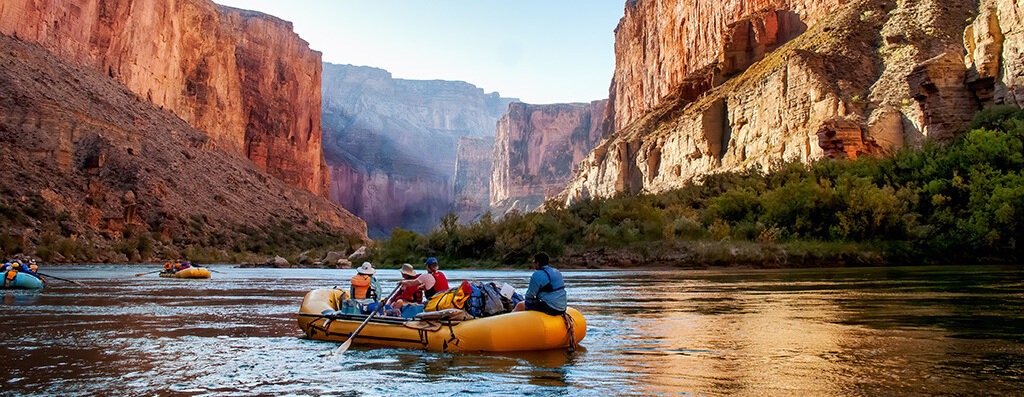
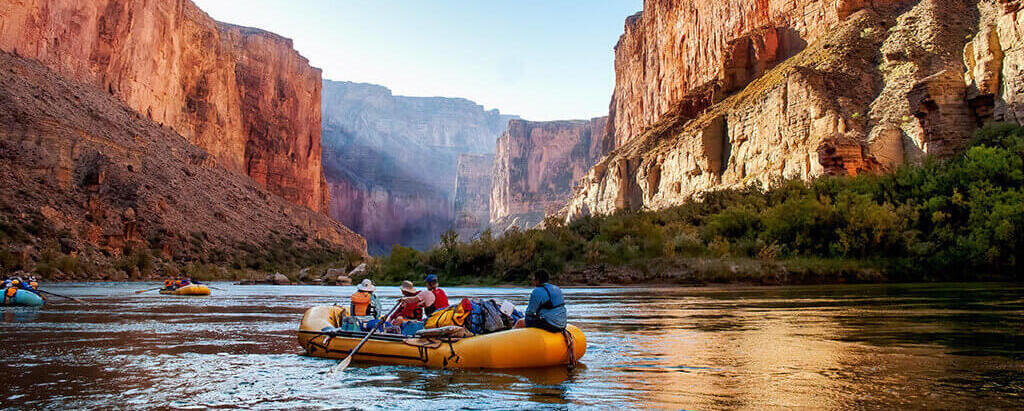
added wwr page 2 rivers html and css

diff --git a/wwr/rivers.html b/wwr/rivers.html
@@ -1,0 +1,112 @@
+<!DOCTYPE html>
+<html lang="en">
+<head>
+    <meta charset="UTF-8">
+    <meta http-equiv="X-UA-Compatible" content="IE=edge">
+    <meta name="viewport" content="width=device-width, initial-scale=1.0">
+    <link rel="stylesheet" href="styles/style.css">
+    <title>Whitewater Rafting Vacations | Dry Oar Boating | Home</title>
+</head>
+<body>
+    <div id="content">
+        <header>
+            <a id="logo_link" href="index.html"><img class="logo" src="images/logo.png" alt="Dry Oar Logo"></a>
+            <nav>
+                <a href="index.html">Home</a>
+                <a href="#">Page 2</a>
+                <a href="site-plan-rafting.html">Site Plan</a>
+                <a href="contactus.html">Contact Us</a>
+            </nav>
+        </header>
+        <div id="hero">
+            <div id="hero-box">
+                <div class="cropped">
+                    <img id="river-hero-img" src="images/banner_rafting11_1024.jpg" alt="People Rafting">
+                </div>
+            </div>
+            <section id="river-hero-msg">
+                <h1 class="rivers-title">Rivers</h1>
+            </section>
+        </div>
+        <main class="river_main">
+            
+            <div class="river_grid">
+                <h2 class="river_name">Main Fork of the Salmon River, Idaho</h2>
+                <img class="river_interest_card left" src="images/salmon-interest.jpeg" alt="Salmon River">
+                <p class="description right"><span class="first_letter">H</span>erds of elk and deer graze on the hillsides around the river and bear and bighorn sheep are also commonly sighted. The river corridor is also lined with awe inspiring ponderosa pine which tower over the sandy beaches in the campsites and provide shelter from sun or rain when needed.<br>Let's not forget the rapids! They range from class I-IV. The Salmon is one of the longest undammed rivers in the United States. As a free-flowing river, the water is higher, faster, and colder in the early summer and lower, slower, and warmer in the late summer. There are good rapids all summer... but families with children who like to swim tend to appreciate the late summer's slower, warmer water more.</p>
+                <div class="price_and_dates parentheses right">
+                    <h2>Salmon River 5-Night Trip</h2>
+                    <p class="parentheses">(The dates listed will be the date that you spend the night 
+                    in Salmon. The launch date is the following day.)</p>
+                    <h3>2022 Pricing and Dates</h3>
+                    <p class="rates_dates">Regular Rate: $1,540<br>Trip Dates: June 3, 10, 17, 24 July 2</p>
+                    <div class="button-box">
+                        <a class="book" href="contactus.html">Book</a>
+                    </div>
+                </div>
+            </div>
+
+            <div class="river_grid">
+                <h2 class="river_name">Desolation and Gray Canyon, Utah</h2>
+                <img class="river_interest_card right" src="images/desolation-interest.jpeg" alt="Green River Desolation and Gray Canyons">
+                <p class="description left"><span class="first_letter">W</span>inding through canyons in central Utah, in some of the most desolate land anywhere, the Green river flows towards the mighty Colorado river and the sea. High grey stone cliffs, beautiful desert scenery, and great rapids have made this run famous. This 84-mile trip runs from Sand Wash to Swaseys Rapid (just outside Green River Utah) and boasts outstanding scenery, interesting geologic formations, evidence of prehistoric and historic human activity, and great whitewater opportunities.
+                <br>
+                Desolation is rated a Class II/III and is usually done in 6 days.
+                <br>
+                Desolation Canyon has been recognized as a National Landmark. This designation is based on the uniqueness and rich history that the canyon tells.</p>
+                <div class="price_and_dates left">
+                    <h2>Desolation 6-Night Trip</h2>
+                    <h3>2022 Pricing and Dates</h3>
+                    <p class="rates_dates">Regular Rate: $1,790<br>Trip Dates: July 10, 18, 26 Aug 3, 11, 19, 27 Sept 4</p>
+                    <div class="button-box">
+                        <a class="book" href="contactus.html">Book</a>
+                    </div>
+                </div>
+            </div>
+
+            <div class="river_grid">
+                <h2 class="river_name">Grand Canyon, Arizona</h2>
+                <img class="river_interest_card left" src="images/salmon-interest.jpeg" alt="Salmon River">
+                <p class="description right"><span class="first_letter">Y</span>ou will never forget your visit to the Grand Canyon.
+                <br>
+                Grand Canyon river rafting combines world-class whitewater with breathtaking scenery to make one truly unforgettable river experience. The canyon is filled not only with exhilarating whitewater rapids, but with side canyons and ancient Indian ruins accessible only by river.
+                <br>
+                CLASS I - X: The Grand Canyon uses a unique river rating scale. The rapids in the Canyon are technically rated I - X (1 - 10) to accommodate such a wide variety of rapids and river variances. However, most people are familiar with the regular I - V river rating scale, so we often refer to both.</p>
+                <div class="price_and_dates right">
+                    <h2>Grand Canyon Three-Night Trip</h2>
+                    <h3>2022 Pricing and Dates</h3>
+                    <p class="rates_dates">Regular Rate: $1,475<br>Trip Dates: April 30 May 13, 20, 27, 30 June 3, 10, 17, 24, 28 July 1, 8, 15, 22, 29 August 5, 12, 19, 26 September 9, 17</p>
+                    <div class="button-box">
+                        <a class="book" href="contactus.html">Book</a>
+                    </div>
+                </div>
+                <div class="price_and_dates parentheses right second">
+                    <h2>Grand Canyon Six-Night Trip</h2>
+                    <p class="parentheses">(The dates listed will be the date that you spend the night in Marble Canyon. The launch date is the following day.)</p>
+                    <h3>2022 Pricing and Dates</h3>
+                    <p class="rates_dates">Regular Rate: $2,550<br>Trip Dates: April 25 May 8, 15, 22, 25, 29 June 5, 12, 19, 23, 26 July 3, 10, 17, 24, 31 August 7, 14, 21 September 4, 12</p>
+                    <div class="button-box">
+                        <a class="book" href="contactus.html">Book</a>
+                    </div>
+                </div>
+            </div>
+        </main>
+        <footer>
+            <p>Dry Oar &copy; 2022 - Hannah Anderson</p>
+            <p><a href="site-plan-rafting.html">Site Plan</a></p>
+            <p><a href="contactus.html">Contact Us</a></p>
+            <div class="social">
+                <a href="https://facebook.com" target="_blank">
+                    <img src="images/facebook.png" alt="fb icon">
+                </a>
+                <a href="https://twitter.com" target="_blank">
+                    <img src="images/twitter.png" alt="twitter icon">
+                </a>
+                <a href="https://instagram.com" target="_blank">
+                    <img src="images/instagram.png" alt="instagram icon">
+                </a>
+            </div>
+        </footer>
+    </div>   
+</body>
+</html>

diff --git a/wwr/styles/style.css b/wwr/styles/style.css
@@ -22,7 +22,7 @@ header {
     align-self: center;
 }
 
-h1, h2, h4 {
+h1, h2, h3, h4 {
     font-family: 'Lobster Two', 'cursive', 'Lucida Console', 'Times New Roman', Trebuchet, Serif;
 }
 
@@ -240,6 +240,119 @@ footer .social img {
     padding-top: 15px;
 }
 
+/* Page 2 Rivers stuff*/
+
+main.river_main {
+    max-width: 910px;
+    margin: auto;
+}
+
+#river-hero-img {
+    margin-top: 29px;
+    width: 100%;
+}
+
+#river-hero-msg {
+    grid-column: 1/2;
+    grid-row: 1/2;
+    margin-top: 6vw;
+    margin-left: 5vw;
+}
+
+#river-hero-msg h1 {
+    color: #BBDEF0;
+    text-align: left;
+    font-size:10vw;
+}
+
+.river_grid {
+    display: grid;
+    grid-template-columns: 1fr 1fr;
+    justify-items: center;
+    align-items: center;
+    column-gap: 5%;
+    text-align: center;
+    margin: 0px 50px;
+}
+
+h2.river_name {
+    grid-column: 1/3;
+    font-size: 44px;
+    margin-top: 30px;
+    margin-bottom: 30px;
+}
+
+img.river_interest_card.left {
+    grid-column: 1/2;
+    width: 100%
+}
+
+img.river_interest_card.right {
+    grid-column: 2/3;
+    width: 100%
+}
+
+.river_interest_card {
+    margin-bottom: 20px;
+}
+
+p.description.right{
+    grid-column: 2/3;
+    margin-top: 0;
+    font-size: 1em;
+    text-align: left;
+}
+
+p.description.left{
+    grid-column: 1/2;
+    grid-row: 2/3;
+    margin-top: 0;
+    font-size: 1em;
+    text-align: left;
+}
+
+div.price_and_dates {
+    grid-column: 1/3;
+}
+
+span.first_letter {
+    font-size: 1.5em;
+    font-weight: bold;
+}
+
+p.parentheses {
+    font-size: .85em;
+    color: #4c5360a0;
+    padding-top: 0;
+    margin-top: 5px;
+    padding-bottom: 0;
+    margin-bottom: 0;
+    max-width: 430px;
+    overflow-wrap: break-word;
+}
+
+.price_and_dates h3 {
+    padding-bottom: 0;
+    margin-bottom: 0;
+}
+
+.price_and_dates.parentheses h3 {
+    padding-top: 5px;
+    margin-top: 5px;
+}
+
+.price_and_dates p.rates_dates {
+    margin: auto;
+    padding-top: 0;
+    margin-top: 5px;
+    max-width: 325px;
+    overflow-wrap: break-word;
+}
+.price_and_dates div.button-box {
+    margin-top: 30px;
+    margin-bottom: 30px;
+}
+
 @media screen and (max-width: 900px) {
     header{
         background-color: #227C9D;
@@ -296,4 +409,78 @@ footer .social img {
     footer {
         margin-top: 25px;
     }
+
+    /* Page 2 Rivers stuff*/
+
+    #river-hero-img {
+        margin-top: 0;
+        width: 100%;
+    }
+
+    #river-hero-msg h1 {
+        color: #227C9D;
+        text-align: left;
+        font-size:10vw;
+    }
+
+    .river_grid {
+        display: block;
+        text-align: center;
+        margin: 0px 50px;
+    }
+
+    img.river_interest_card {
+        width: 50%;
+    }
+
+    .river_interest_card {
+        margin-bottom: 20px;
+    }
+
+    p.description{
+        margin-left: 20px;
+        margin-top: 0;
+        font-size: 1em;
+        text-align: left;
+    }
+
+    span.first_letter {
+        font-size: 1.5em;
+        font-weight: bold;
+    }
+
+    p.parentheses {
+        font-size: .85em;
+        color: #4c5360a0;
+        margin: auto;
+        padding-top: 0;
+        margin-top: 5px;
+        padding-bottom: 0;
+        margin-bottom: 0;
+        max-width: 430px;
+        overflow-wrap: break-word;
+    }
+
+    .price_and_dates h3 {
+        padding-bottom: 0;
+        margin-bottom: 0;
+    }
+
+    .price_and_dates.parentheses h3 {
+        padding-top: 5px;
+        margin-top: 5px;
+    }
+
+    .price_and_dates p.rates_dates {
+        margin: auto;
+        padding-top: 0;
+        margin-top: 5px;
+        max-width: 325px;
+        overflow-wrap: break-word;
+    }
+    .price_and_dates div.button-box {
+        margin-top: 30px;
+        margin-bottom: 50px;
+    }
+
 }
